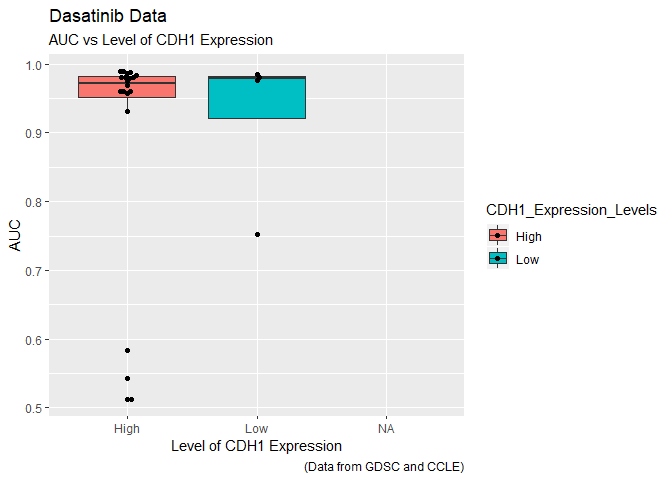
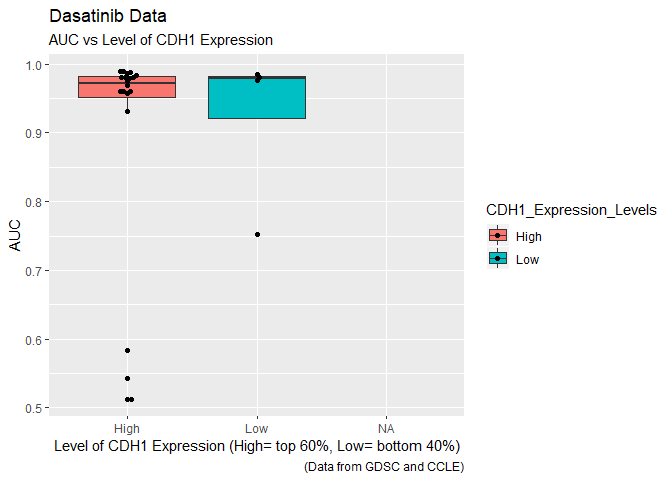
27/11/19 end of day

Changed region(s): [[0.0625, 0.9062, 0.6875, 0.9688]]

diff --git a/CCLE_GDSC_27_11_19.md b/CCLE_GDSC_27_11_19.md
@@ -137,7 +137,7 @@ write.csv(CCLE_dasat_CDH1,"~/Documents/R Data/summer_project/CCLE_GDSC/Data/CCLE
 # CCLE_dasat_CDH1 <- read.csv("~/Documents/R Data/summer_project/CCLE_GDSC/Data/CCLE_dasat_CDH1.csv")
 # AUC ggplot (with CDH1 expression levels)
 ggplot(data=CCLE_dasat_CDH1, mapping=aes(x=CDH1_Expression_Levels, y=AUC, fill=CDH1_Expression_Levels)) +
-  labs(x= "Level of CDH1 Expression", y="AUC", caption="(Data from GDSC and CCLE)") +
+  labs(x= "Level of CDH1 Expression (High= top 60%, Low= bottom 40%)", y="AUC", caption="(Data from GDSC and CCLE)") +
   ggtitle("Dasatinib Data", subtitle="AUC vs Level of CDH1 Expression") +
   geom_boxplot() +
   geom_beeswarm()
@@ -152,7 +152,7 @@ ggplot(data=CCLE_dasat_CDH1, mapping=aes(x=CDH1_Expression_Levels, y=AUC, fill=C
 ``` r
 # IC50 ggplot (with CDH1 expression levels)
 ggplot(data=CCLE_dasat_CDH1, mapping =aes(x=CDH1_Expression_Levels, y=IC50, fill=CDH1_Expression_Levels)) +
-  labs(x= "Level of CDH1 Expression",y="IC50", caption="(Data from GDSC and CCLE)") +
+  labs(x= "Level of CDH1 Expression (High= top 60%, Low= bottom 40%)",y="IC50", caption="(Data from GDSC and CCLE)") +
   ggtitle("Dasatinib Data", subtitle="IC50 vs Level of CDH1 Expresion") +
   geom_boxplot() +
   geom_beeswarm()
@@ -170,7 +170,7 @@ ggplot(data=CCLE_dasat_CDH1, mapping =aes(x=CDH1_Expression_Levels, y=IC50, fill
 
 ``` r
 ggplot(data=CCLE_dasat_CDH1, mapping=aes(x=CDH1_Mutations, y=Normalised_CDH1_Expression, fill=CDH1_Mutations)) +
-  labs(x= "Number of CDH1 Mutations", y="Normalised CDH1 Expression", caption="(Data from GDSC and CCLE)") +
+  labs(x= "Number of CDH1 Mutations", y="Normalised CDH1 Expression (logCPM)", caption="(Data from GDSC and CCLE)") +
   ggtitle("CDH1 Data", subtitle="Normalised CDH1 Expression vs Number of CDH1 Mutations") +
   geom_boxplot() +
   geom_beeswarm()

diff --git a/CCLE_GDSC_Working_21_11_19.md b/CCLE_GDSC_Working_21_11_19.md
@@ -658,6 +658,7 @@ head(auc_match)
 
 ``` r
 # Figure out which expDat observations are within commonSamples (match)
+##################### There's a small chance that this is wrong, but I don't think so (colnames, not names)
 expDat_match <- match(commonSamples, colnames(expDat))
 head(expDat_match)
 ```
@@ -1345,7 +1346,7 @@ setDT(CDH1_Exp_Levels, keep.rownames = "CCLE_Name")[]
     ## 621:                               ZR7530_BREAST          4.0726827
 
 ``` r
-# Filter so lowest 20% is "Low", top 80% is "High" (can replace values later on)
+# Filter so lowest 40% is "Low", top 80% is "High" (can replace values later on)
 CDH1_Exp_Levels$CDH1_Expression <- ifelse(CDH1_Exp_Levels$ENSG00000039068.14 < quantile(CDH1_Exp_Levels$ENSG00000039068.14, 0.4), "Low","High")
 ```
 
